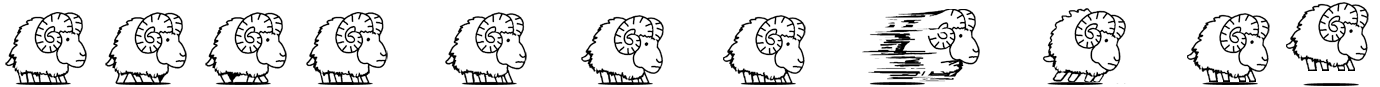
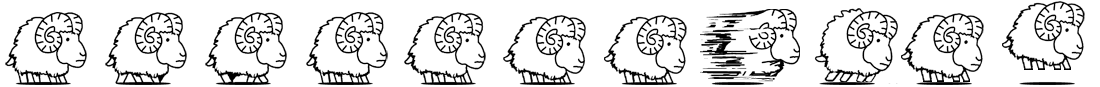
damage time

diff --git a/src/App.js b/src/App.js
@@ -14,7 +14,7 @@ const baseHeight = baseFactor * 80;
 const baseBottom = 1;
 const baseX = 2;
 
-const buttonWidth = 32;
+const buttonWidth = 44;
 const buttonH = buttonWidth;
 
 const attackTypes = {
@@ -166,7 +166,8 @@ function EnemyButton(props) {
 function App() {
 	const unit = {width:25, height:25,
 		// sprite layout: walking - attack - hurt 
-		walkingImageCount: 3, attackImageCount: 4, attackWidth: 25, hurtWidth: 0,
+		walkingImageCount: 3, attackImageCount: 4, damageOn: 3,
+		attackWidth: 25, hurtWidth: 0,
 		imageToLogicalPxFactor: 1,
 		cost:75, 
 		timeToMake:2, // time to wait before adding another unit of this type, seconds. 
@@ -183,17 +184,27 @@ function App() {
 			initialHealth:100, attackPower:15, attackRange:1.1,
 			speed:speedFactor*8, 
 		}, 
-		{...unit, type: "baa", width:100, attackWidth: 140, hurtWidth:100, height:87, attackImageCount:7, 
+//		todo: remove some images
+		{...unit, type: "baa", width:100, attackWidth: 110, hurtWidth:100, 
+			height:87, attackImageCount:7, damageOn: 5, 
 			imageToLogicalPxFactor: .5, 
 			knockBacks:2, initialHealth:500, attackPower:50, attackRange:1.1, //110
 			speed:speedFactor*7, timeBetweenAttacks:2.8,
-	},
+		},
+		// removed some images
+		// {...unit, type: "baa2", width:85, attackWidth: 105, hurtWidth:500, 
+		// 	height:87, walkingImageCount:2, attackImageCount:2, damageOn: 1, 
+		// 	imageToLogicalPxFactor: .5, 
+		// 	knockBacks:2, initialHealth:500, attackPower:50, attackRange:1.1, //110
+		// 	speed:speedFactor*7, timeBetweenAttacks:.5,
+		// },
 	//	{...unit, type:"croco", width:35, height:15, speed:speedFactor*3, attackPower:4},
 	];
 
 	const aCat = {...unit, type:"A", speed:speedFactor*10}
 	const catTypes = [
-		{...aCat, width:50, height:58, attackWidth:48, attackImageCount: 3, imageToLogicalPxFactor: 0.5,
+		{...aCat, width:50, height:58, attackWidth:48, attackImageCount: 3, damageOn: 2,
+			imageToLogicalPxFactor: 0.5,
 			attackPower:8, 
 		}, 
 //		{...aCat, type:"gold", width:50, height:58, attackWidth:60, hurtWidth:60, attackImageCount: 4, 
@@ -203,16 +214,16 @@ function App() {
 			attackPower:2, initialHealth:4*initialHealth, knockBacks:1,
 			speed:speedFactor*8, timeBetweenAttacks:2.23
 		},
-		{...aCat, type:"wall", width:71, height:143, attackWidth: 160, walkingImageCount: 3, attackImageCount: 7, hurtWidth:80, 
-			imageToLogicalPxFactor: 0.4,
-			attackType:attackTypes.areaAttack,  attackRange:8, 
-			attackPower:2, initialHealth:4*initialHealth, knockBacks:1,
-			speed:speedFactor*8, timeBetweenAttacks:2.23
-		},
+		// {...aCat, type:"wall", width:71, height:143, attackWidth: 160, walkingImageCount: 3, attackImageCount: 7, hurtWidth:80, 
+		// 	imageToLogicalPxFactor: 0.4,
+		// 	attackType:attackTypes.areaAttack,  attackRange:8, 
+		// 	attackPower:2, initialHealth:4*initialHealth, knockBacks:1,
+		// 	speed:speedFactor*8, timeBetweenAttacks:2.23
+		// },
 		{...aCat, type:"axe", width:53, height:63, attackWidth: 56, hurtWidth: 36, imageToLogicalPxFactor: 0.7, 
 			attackPower:25,  attackRange:3, initialHealth:2*initialHealth, speed:speedFactor*12, timeBetweenAttacks:1,
 		},// 106, 115, 75 x 126 
-		{...aCat, type:"sword", speed:speedFactor*12, width:48, height:63, attackWidth: 69, hurtWidth: 42, imageToLogicalPxFactor: 0.7},
+//		{...aCat, type:"sword", speed:speedFactor*12, width:48, height:63, attackWidth: 69, hurtWidth: 42, imageToLogicalPxFactor: 0.7},
 		{...aCat, type:"legs", width:90, height: 306, 
 			imageToLogicalPxFactor:0.4, walkingImageCount:5, attackWidth:250, 
 			initialHealth:4*initialHealth, attackPower:initialHealth, attackRange:3.5, 
@@ -223,16 +234,16 @@ function App() {
 			initialHealth:4*initialHealth, attackPower:initialHealth, attackRange:1.5, 
 			speed:speedFactor*30, timeBetweenAttacks:.3,  
 		},
-		{...aCat, type:"giraffe", width:100, height: 160, 
-			imageToLogicalPxFactor:0.4, walkingImageCount:4, attackImageCount:5, attackWidth:168, hurtWidth:262, 
-			initialHealth:4*initialHealth, attackPower:initialHealth, attackRange:3.5, 
-			speed:speedFactor*30, timeBetweenAttacks:.3,  
-		},
-		{...aCat, type:"dragon", width:114, height: 183, 
-			imageToLogicalPxFactor:0.4, walkingImageCount:4, attackImageCount:4, attackWidth:210, hurtWidth:120, 
-			initialHealth:4*initialHealth, attackPower:initialHealth, attackRange:22, 
-			speed:speedFactor*10, timeBetweenAttacks:2.3,  
-		},
+		// {...aCat, type:"giraffe", width:100, height: 160, 
+		// 	imageToLogicalPxFactor:0.4, walkingImageCount:4, attackImageCount:5, attackWidth:168, hurtWidth:262, 
+		// 	initialHealth:4*initialHealth, attackPower:initialHealth, attackRange:3.5, 
+		// 	speed:speedFactor*30, timeBetweenAttacks:.3,  
+		// },
+		// {...aCat, type:"dragon", width:114, height: 183, 
+		// 	imageToLogicalPxFactor:0.4, walkingImageCount:4, attackImageCount:4, attackWidth:210, hurtWidth:120, 
+		// 	initialHealth:4*initialHealth, attackPower:initialHealth, attackRange:22, 
+		// 	speed:speedFactor*10, timeBetweenAttacks:2.3,  
+		// },
 	];
 	const initialPos = {
 		cats: [],
@@ -310,7 +321,7 @@ function App() {
 	function moveAll(x)
 	{
 		const t = x+1;
-		console.log(t)
+		// console.log(t)
 		moveCat(t);
 		moveDog(t);
 		// pass time in addition to position state (alternatively we might include time into the rest of state)
@@ -378,7 +389,7 @@ function App() {
 	}
 	function isDamageTime(unit, time)
 	{
-		return time - unit.lastAttackStart === unit.attackImageCount - 1;
+		return time - unit.lastAttackStart === unit.damageOn;
 	}
 	function canAttack(unit, target, oppositeTeam, time)
 	{
